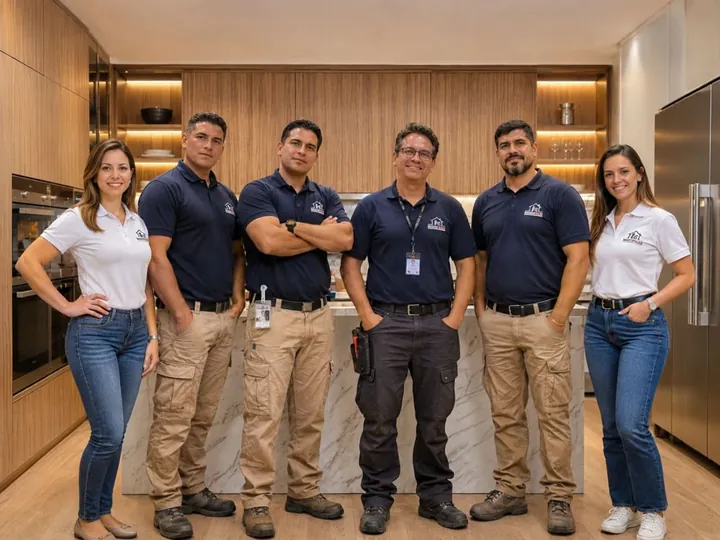
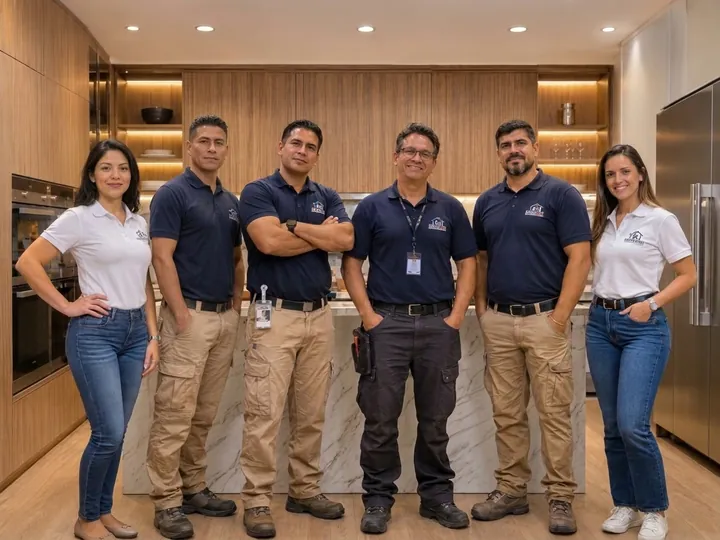
Actualiza las fotos de Instalación, Diagnóstico y Equipo
- Instalación y panelado: foto nueva con rótulo de imagen referencial;
  la foto anterior pasa al paso 4 «Charla de uso»
- Paso 2 «Diagnóstico transparente»: técnico revisando en su tablet el
  código de error del lavavajillas, recortado desde la foto vertical
- Nuestro equipo: foto nueva (4:3)
- En el carrusel del proceso el rótulo va arriba para no tapar la
  pantalla del equipo en el celular

Claude-Session: https://claude.ai/code/session_012jyCr3wqnRcai8VXK93yGC

diff --git a/index.html b/index.html
@@ -371,11 +371,12 @@
     <section class="section section--tint" id="instalacion" aria-labelledby="instalacion-title">
       <div class="container install">
         <figure class="install__media">
-          <img src="assets/img/instalacion-panelado-1279.webp"
-               srcset="assets/img/instalacion-panelado-800.webp 800w, assets/img/instalacion-panelado-1279.webp 1279w"
+          <img src="assets/img/instalacion-panelado-1365.webp"
+               srcset="assets/img/instalacion-panelado-800.webp 800w, assets/img/instalacion-panelado-1365.webp 1365w"
                sizes="(max-width: 860px) calc(100vw - 2rem), 50vw"
-               alt="Dos técnicos de MantenPlus en una cocina de alta gama: uno termina el panelado de un refrigerador integrable y el otro explica a la dueña de casa el uso de su lavavajillas panelado"
-               width="1279" height="719" loading="lazy" decoding="async">
+               alt="Dos técnicos de MantenPlus en una cocina de alta gama: uno conversa con la dueña de casa junto al lavavajillas panelado y el otro termina el panelado de un refrigerador integrable"
+               width="1365" height="768" loading="lazy" decoding="async">
+          <figcaption class="photo-tag">Imagen referencial</figcaption>
           <div class="install__badge">
             <span class="install__badge-icon" aria-hidden="true"><svg class="icon"><use href="#i-panel"/></svg></span>
             <span><strong>A ras y a medida</strong><small>Equipos encastrables y panelables</small></span>
@@ -604,7 +605,7 @@
           <p class="section-lead">Cuatro pasos, siempre los mismos, en cada servicio.</p>
         </header>
 
-        <!-- Fotos del proceso: el paso 1 tiene su propia foto; los pasos 2 a 4 reutilizan fotos de la galería y de Instalación con otro encuadre. -->
+        <!-- Fotos del proceso: los pasos 1, 2 y 4 tienen foto propia (assets/img/proceso/); el paso 3 reutiliza la campana de isla de la galería. -->
         <div class="story" data-story role="region" aria-roledescription="carrusel" aria-label="Los cuatro pasos de nuestro servicio">
           <ol class="story__track" role="list" data-story-track>
             <li class="story__step is-active" data-step>
@@ -632,7 +633,7 @@
                   <span>Foto: técnico mostrando el diagnóstico al cliente</span>
                 </div>
                 <picture>
-                  <img src="assets/img/galeria/reparacion-placa-horno-1280.webp" srcset="assets/img/galeria/reparacion-placa-horno-640.webp 640w, assets/img/galeria/reparacion-placa-horno-1280.webp 1280w" sizes="(max-width: 860px) 85vw, 54vw" alt="Técnico revisando la placa electrónica de un horno para diagnosticar la falla" width="1280" height="1170" style="object-position: 60% 30%" loading="lazy" decoding="async">
+                  <img src="assets/img/proceso/paso-2-diagnostico-688.webp" srcset="assets/img/proceso/paso-2-diagnostico-480.webp 480w, assets/img/proceso/paso-2-diagnostico-688.webp 688w" sizes="(max-width: 860px) 85vw, 54vw" alt="Técnico de MantenPlus revisando en su tablet el código de error E15 que muestra un lavavajillas" width="688" height="600" style="object-position: 50% 35%" loading="lazy" decoding="async">
                 </picture>
                 <span class="photo-tag">Imagen referencial</span>
               </figure>
@@ -667,7 +668,7 @@
                   <span>Foto: técnico explicando el panel del equipo al cliente</span>
                 </div>
                 <picture>
-                  <img src="assets/img/instalacion-panelado-1279.webp" srcset="assets/img/instalacion-panelado-800.webp 800w, assets/img/instalacion-panelado-1279.webp 1279w" sizes="(max-width: 860px) 85vw, 54vw" alt="Técnico explicando a la dueña de casa cómo usar su lavavajillas" width="1279" height="719" style="object-position: 30% 50%" loading="lazy" decoding="async">
+                  <img src="assets/img/proceso/paso-4-charla-1279.webp" srcset="assets/img/proceso/paso-4-charla-800.webp 800w, assets/img/proceso/paso-4-charla-1279.webp 1279w" sizes="(max-width: 860px) 85vw, 54vw" alt="Técnico explicando a la dueña de casa cómo usar su lavavajillas" width="1279" height="719" style="object-position: 30% 50%" loading="lazy" decoding="async">
                 </picture>
               </figure>
               <div class="story__text">
@@ -778,13 +779,13 @@
           <figure class="team-photo">
             <!--
               FOTO DEL EQUIPO: imagen referencial (logos poco legibles). Al tener la foto institucional real
-              (docs/04-brief-fotografico.md, Foto 2), reemplazar assets/img/equipo-mantenplus-{720,1280}.webp.
+              (docs/04-brief-fotografico.md, Foto 2), reemplazar assets/img/equipo-mantenplus-{720,1195}.webp.
             -->
-            <img src="assets/img/equipo-mantenplus-1280.webp"
-                 srcset="assets/img/equipo-mantenplus-720.webp 720w, assets/img/equipo-mantenplus-1280.webp 1280w"
+            <img src="assets/img/equipo-mantenplus-1195.webp"
+                 srcset="assets/img/equipo-mantenplus-720.webp 720w, assets/img/equipo-mantenplus-1195.webp 1195w"
                  sizes="(max-width: 860px) calc(100vw - 2rem), 56vw"
                  alt="Equipo de MantenPlus: cuatro técnicos con polo azul marino, pantalón de trabajo y botas, junto a dos integrantes de atención al cliente con polo blanco, en una cocina de alta gama"
-                 width="1280" height="960" loading="lazy" decoding="async">
+                 width="1195" height="896" loading="lazy" decoding="async">
             <figcaption class="photo-tag">Imagen referencial</figcaption>
           </figure>
         <ul class="pillars pillars--stack" role="list">

diff --git a/assets/css/styles.css b/assets/css/styles.css
@@ -843,6 +843,8 @@ details[open] > summary .acc-plus { transform: rotate(45deg); }
   font-size: .6875rem; font-weight: 500; color: var(--ink); line-height: 1.3;
   background: rgba(255, 255, 255, .86); -webkit-backdrop-filter: blur(8px); backdrop-filter: blur(8px); border-radius: var(--radius-pill);
 }
+/* En el carrusel del proceso el rótulo va arriba: abajo taparía detalles como la pantalla del equipo */
+.story__media .photo-tag { top: .75rem; bottom: auto; }
 .check-list { display: grid; gap: .75rem; margin: var(--space-6) 0; padding: 0; list-style: none; }
 .check-list li { display: flex; align-items: flex-start; gap: .65rem; color: var(--gray-700); }
 .check-list .icon { width: 1.35em; height: 1.35em; margin-top: .1em; }

diff --git a/docs/07-directrices-marca.md b/docs/07-directrices-marca.md
@@ -30,7 +30,9 @@ Las fotos entregadas tienen rasgos de imagen generada (logotipos y textos ilegib
 | 6 | Foto nueva del equipo | Cuatro técnicos con el mismo uniforme y credencial visible, más dos integrantes de atención al cliente (4:3) |
 | 7 | Herramientas | Dos fotos en dos columnas: instrumentos de medición, y herramientas de precisión con detector de fugas de gas |
 
-Rótulo «Imagen referencial» en las fotos con logos o textos ilegibles: portada, paso 1 y paso 2 del proceso, equipo, placa de horno y fuelle de lavadora. El comparador mantiene la nota general «Imágenes referenciales del tipo de trabajo que realizamos».
+Segunda entrega del 2 nov: foto nueva en Instalación y panelado (la anterior pasa al paso 4 «Charla de uso»), foto nueva en el paso 2 «Diagnóstico transparente» (técnico leyendo el código E15 de un lavavajillas en su tablet; la placa de horno queda solo en la galería) y foto nueva del equipo.
+
+Rótulo «Imagen referencial» en las fotos con logos o textos ilegibles: portada, Instalación y panelado, pasos 1 y 2 del proceso, equipo, placa de horno y fuelle de lavadora. En el carrusel del proceso el rótulo va arriba para no tapar detalles de la foto. El comparador mantiene la nota general «Imágenes referenciales del tipo de trabajo que realizamos».
 
 Observaciones pendientes para el cliente:
 - En varias fotos el polo lleva un logo «M+» con «Servicio Técnico de Electrodomésticos», distinto del isotipo oficial (casa con refrigerador y lavadora).
@@ -41,11 +43,11 @@ Observaciones pendientes para el cliente:
 | Uso | Archivos |
 |---|---|
 | Portada | `assets/img/portada-tecnico-lavadora-{600,1200}.webp` |
-| Instalación y panelado | `assets/img/instalacion-panelado-{800,1279}.webp` |
+| Instalación y panelado | `assets/img/instalacion-panelado-{800,1365}.webp` |
 | Antes/después | `assets/img/resultados/{lavadora,secadora,lavavajillas,horno,microondas,encimera,campana}-{antes,despues}-*.webp` |
 | Galería | `assets/img/galeria/*-{640,1280}.webp` |
-| Proceso, paso 1 | `assets/img/proceso/paso-1-llegada-{800,1408}.webp` |
-| Equipo | `assets/img/equipo-mantenplus-{720,1280}.webp` |
+| Proceso | `assets/img/proceso/paso-1-llegada-{800,1408}.webp`, `paso-2-diagnostico-{480,688}.webp`, `paso-4-charla-{800,1279}.webp`; el paso 3 usa la campana de isla de la galería |
+| Equipo | `assets/img/equipo-mantenplus-{720,1195}.webp` |
 | Herramientas | `assets/img/herramientas/{instrumentos-medicion,herramientas-precision}-{640,1280}.webp` |
 
 ## Piezas compartidas
